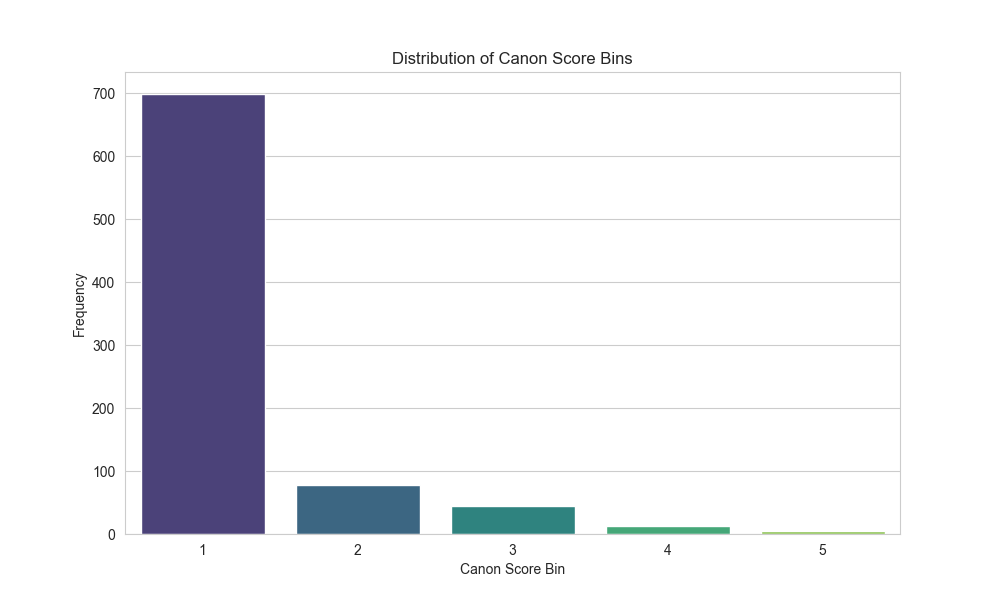
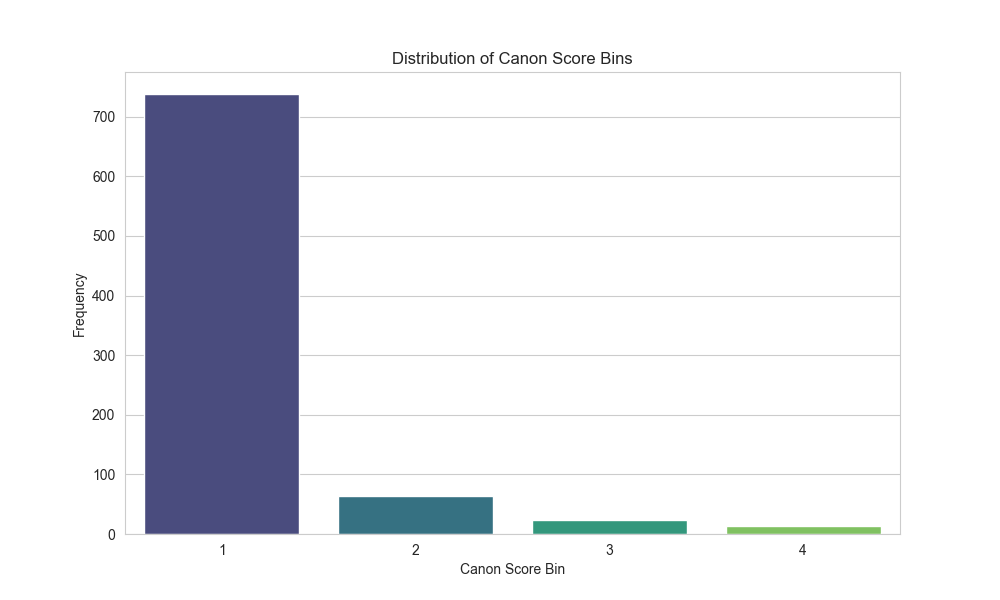
new dk data

Changed region(s): [[0.248, 0.15, 0.899, 0.9], [0.093, 0.15, 0.155, 0.87]]

diff --git a/scripts/normalization_functions.py b/scripts/normalization_functions.py
@@ -1,0 +1,59 @@
+
+import pandas as pd
+import numpy as np
+from sklearn.preprocessing import StandardScaler
+
+
+# function from scripts/normalize_df.py
+def normalize_dataframe(df, id_col, output_file):
+    numeric_data = df.select_dtypes(include=[np.number])
+
+    if numeric_data.empty:
+        raise ValueError("No numeric data found for normalization.")
+    
+    print("Columns to be normalized:", numeric_data.columns.tolist())
+
+    norms = np.linalg.norm(numeric_data.values, axis=1)
+
+    if np.allclose(norms, 1.0, atol=1e-5):
+        print("Data is already normalized.")
+        return df
+
+    print("Normalizing data...")
+    normalized_data = numeric_data.values / norms[:, np.newaxis]
+    normalized_df = pd.DataFrame(normalized_data, columns=numeric_data.columns)
+
+    # Insert ID column at beginning
+    if id_col in df.columns:
+        normalized_df.insert(0, id_col, df[id_col].values)
+
+    normalized_df.to_csv(output_file, index=False)
+    print(f"Normalized data saved to {output_file}")
+
+    return normalized_df
+
+
+# function to normalize based on features
+def standardize_features(df, id_col, output_file):
+    scaler = StandardScaler()
+
+    # Identify and extract numeric columns (excluding the ID)
+    numeric_cols = df.select_dtypes(include=[np.number]).columns.tolist()
+    
+    if not numeric_cols:
+        raise ValueError("No numeric data found for normalization.")
+
+    print("Columns to be normalized:", numeric_cols)
+
+    # Scale numeric data
+    scaled_values = scaler.fit_transform(df[numeric_cols])
+    normalized_df = pd.DataFrame(scaled_values, columns=numeric_cols)
+
+    # Add ID column
+    normalized_df.insert(0, id_col, df[id_col].values)
+
+    normalized_df.to_csv(output_file, index=False)
+    print(f"Standardized data saved to {output_file}")
+
+    return normalized_df
+

diff --git a/scripts/normalize_df.py b/scripts/normalize_df.py
@@ -26,3 +26,4 @@ else:
     normalized_df = pd.DataFrame(normalized_data, columns=numeric_data.columns)
     normalized_df.to_csv(NORMALIZED_FILE_NAME, index=True)
     print(f"Normalized data saved to {NORMALIZED_FILE_NAME}")
+